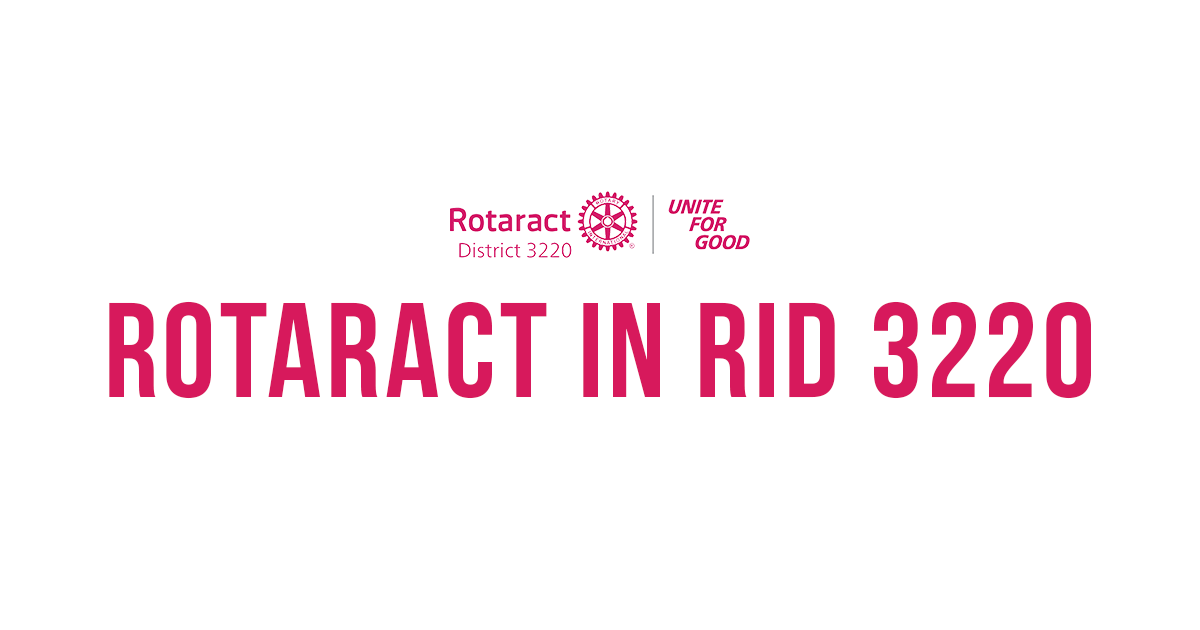
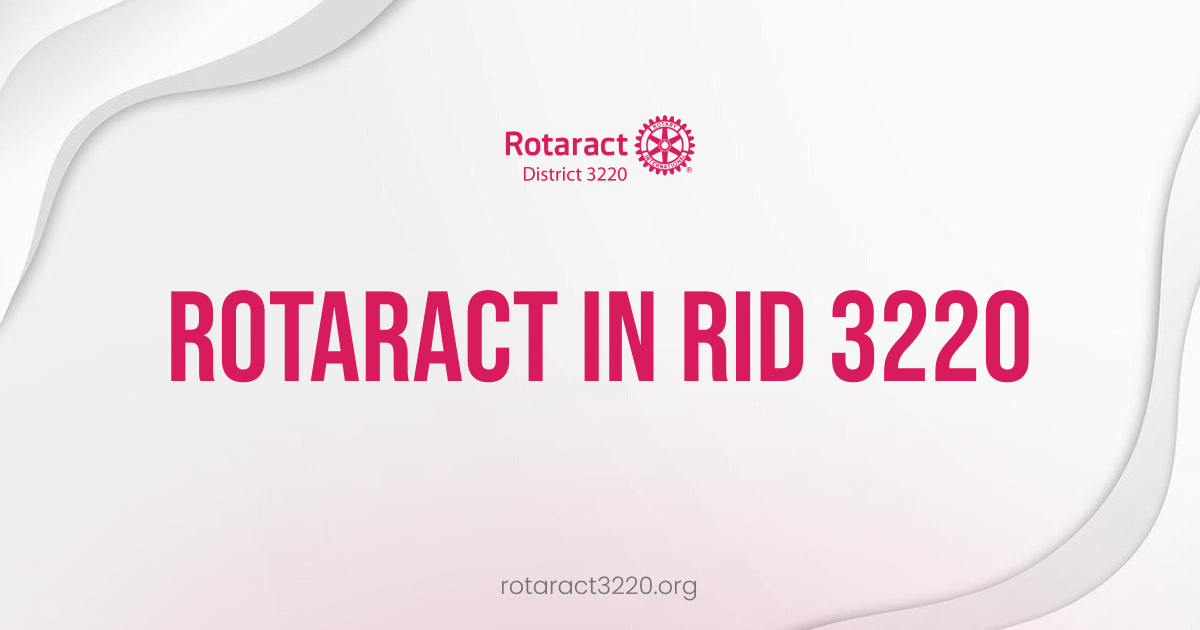
meta image update

diff --git a/disco-web/src/components/ui/footer.jsx b/disco-web/src/components/ui/footer.jsx
@@ -20,7 +20,7 @@ const Footer = () => {
       <div className="w-full flex flex-col lg:flex-row items-center lg:justify-between mt-5">
         <p className='text-white text-sm'>© 2026 Rotaract in RID 3220. All rights reserved.</p>
         <p className="text-xs md:text-sm text-white">
-          Designed & Developed by <span className='animate-gradient font-bold bg-gradient-to-r bg-clip-text text-transparent from-[#22D1AE] via-[#EAEAEA] to-[#22D1AE]'><a href="https://www.instagram.com/code.techghost_/">Code.Techghost</a></span>
+          Designed & Developed by <span className='animate-gradient font-bold bg-gradient-to-r bg-clip-text text-transparent from-[#22D1AE] via-[#EAEAEA] to-[#22D1AE]'><a href="https://sandinupinnawala.com/">Code.Techghost</a></span>
         </p>
       </div>
 